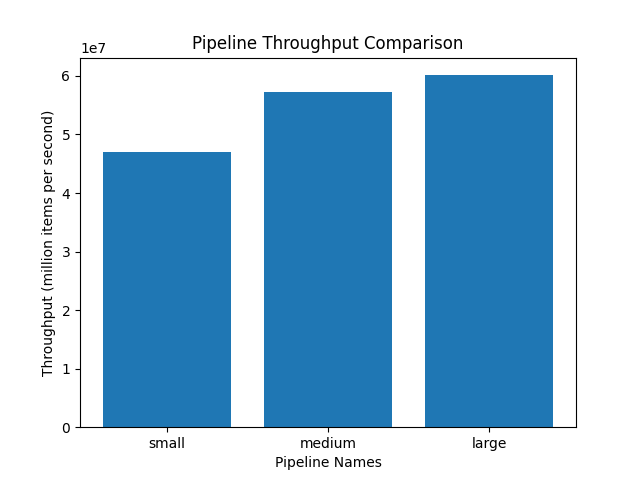
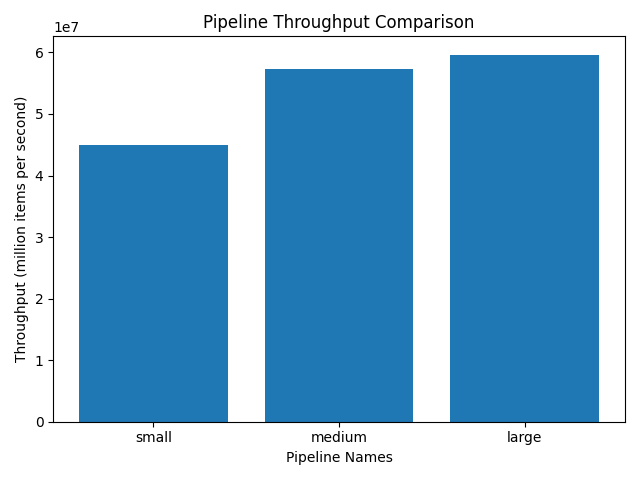
Finishing part2

diff --git a/part2.py b/part2.py
@@ -13,6 +13,7 @@ to report which one is faster.
 
 import part1
 import time
+from collections import defaultdict
 import seaborn as sns
 import pandas as pd
 import matplotlib.pyplot as plt
@@ -108,6 +109,7 @@ class ThroughputHelper:
         plt.xlabel('Pipeline Names')
         plt.ylabel('Throughput (million items per second)')
         plt.title('Pipeline Throughput Comparison')
+        plt.tight_layout()
         plt.savefig(filename)
 
 """
@@ -246,6 +248,7 @@ class LatencyHelper:
         plt.xlabel('Pipeline Names')
         plt.ylabel('Latencies (milliseconds second)')
         plt.title('Pipeline Latency Comparison')
+        plt.tight_layout()
         plt.savefig(filename)
 
 """
@@ -383,19 +386,19 @@ See if you can compute this using Pandas functions only.
 def load_input(filename):
     # Return a dataframe containing the population data
     # **Clean the data here**
-    population = pd.read_csv(filename)
+    population_data = pd.read_csv(filename)
     # groups = population.groupby("Code").mean("Population (historical)")
 
-    filtered_data = population[population["Code"].notnull()]
+    filtered_data = population_data[population_data["Code"].notnull()]
     return filtered_data
 
 def population_pipeline(df):
     # Input: the dataframe from load_input()
     # Return a list of min, median, max, mean, and standard deviation
-    population = df
-    population = population[population["Code"].notnull()]
+    population_data = df
+    population_data = population_data[population_data["Code"].notnull()]
 
-    country_stats = population.groupby("Entity").apply(lambda group: pd.Series({
+    country_stats = population_data.groupby("Entity").apply(lambda group: pd.Series({
         "min_year": group["Year"].min(),
         "max_year": group["Year"].max(),
         "min_population": group.loc[group["Year"] == group["Year"].min(), "Population (historical)"].values[0],
@@ -481,19 +484,19 @@ Each should call your population_pipeline from Q7.
 
 def baseline_small():
     h = LatencyHelper()
-    h.add_pipeline("baseline small", lambda: population_pipeline(load_input_small))
+    h.add_pipeline("baseline small", lambda: population_pipeline(load_input_small()))
 
 def baseline_medium():
     h = LatencyHelper()
-    h.add_pipeline("baseline medium", lambda: population_pipeline(load_input_medium))
+    h.add_pipeline("baseline medium", lambda: population_pipeline(load_input_medium()))
 
 def baseline_large():
     h = LatencyHelper()
-    h.add_pipeline("baseline large", lambda: population_pipeline(load_input_large))
+    h.add_pipeline("baseline large", lambda: population_pipeline(load_input_large()))
 
 def baseline_latency():
     h = LatencyHelper()
-    h.add_pipeline("baseline large", lambda: population_pipeline(load_input_single_row))
+    h.add_pipeline("baseline large", lambda: population_pipeline(load_input_single_row()))
 
 def q8():
     # Don't modify this part
@@ -523,34 +526,52 @@ b. Generate a plot in output/q9b.png of the latencies
 """
 
 # TODO
-# POPULATION_SMALL =
-# POPULATION_MEDIUM =
-# POPULATION_LARGE =
-# POPULATION_SINGLE_ROW =
+POPULATION_SMALL = load_input_small()
+POPULATION_MEDIUM = load_input_medium()
+POPULATION_LARGE = load_input_large()
+POPULATION_SINGLE_ROW = load_input_single_row()
 
 def fromvar_small():
-    raise NotImplementedError
+    h = ThroughputHelper()
+    h.add_pipeline("from var small", 600, lambda: population_pipeline(POPULATION_SMALL))
 
 def fromvar_medium():
-    raise NotImplementedError
+    h = ThroughputHelper()
+    h.add_pipeline("from var medium", 6000, lambda: population_pipeline(POPULATION_MEDIUM))
 
 def fromvar_large():
-    raise NotImplementedError
+    h = ThroughputHelper()
+    h.add_pipeline("from var large", 59178, lambda: population_pipeline(POPULATION_LARGE))
 
 def fromvar_latency():
-    raise NotImplementedError
+    h = LatencyHelper()
+    h.add_pipeline("from var latency", lambda: population_pipeline(POPULATION_SINGLE_ROW))
 
 def q9a():
+    h = ThroughputHelper()
     # Add all 6 pipelines for a throughput comparison
+    h.add_pipeline("baseline s", 600, lambda: population_pipeline(load_input_small()))
+    h.add_pipeline("baseline m", 6000, lambda: population_pipeline(load_input_medium()))
+    h.add_pipeline("baseline l", 59178, lambda: population_pipeline(load_input_large()))
+    h.add_pipeline("fromvar s", 600, lambda: population_pipeline(POPULATION_SMALL))
+    h.add_pipeline("fromvar m", 6000,lambda: population_pipeline(POPULATION_MEDIUM))
+    h.add_pipeline("fromvar l", 59178, lambda: population_pipeline(POPULATION_LARGE))
+    throughputs = h.compare_throughput()
     # Generate plot in ouptut/q9a.png
+    h.generate_plot("output/q9a.png")
     # Return list of 6 throughputs
-    raise NotImplementedError
+    return throughputs
 
 def q9b():
     # Add 2 pipelines for a latency comparison
+    h = LatencyHelper()
+    h.add_pipeline("baseline latency", lambda: population_pipeline(load_input_single_row()))
+    h.add_pipeline("from var latency", lambda: population_pipeline(POPULATION_SINGLE_ROW))
+    latencies = h.compare_latency()
     # Generate plot in ouptut/q9b.png
+    h.generate_plot("output/q9b.png")
     # Return list of 2 latencies
-    raise NotImplementedError
+    return latencies
 
 """
 10.
@@ -560,6 +581,11 @@ Which differs more, throughput or latency?
 What does this experiment show?
 
 ===== ANSWER Q10 BELOW =====
+
+The difference between loading the data from the csv vs a variable
+is very dramatic - variable is much faster. The difference between
+the fromvar and baseline is greater in the latency department, where
+the baseline is almost 7x slower. 
 
 ===== END OF Q10 ANSWER =====
 """
@@ -589,16 +615,73 @@ Create a new pipeline:
   statistics for the list (min, median, max, mean, and standard deviation).
 """
 
-def for_loop_pipeline(df):
+def for_loop_pipeline(df, multiple_rows = True):
     # Input: the dataframe from load_input()
     # Return a list of min, median, max, mean, and standard deviation
-    raise NotImplementedError
+
+    # 1. Iterate through dataframe to calculate min/max year for each country
+    # 2. Group by country
+    # 3. Compute growth rate between those years
+    # 4. Filter out single year entries
+    # 5. Calculate summary statistics on those growth rates
+
+    population_data = df
+    population_data = population_data[population_data["Code"].notnull()]
+
+    min_years = defaultdict(lambda: float('inf')) # Algeria: -1000
+    min_years_pop = defaultdict(int) # Algeria: 5912
+    max_years = defaultdict(lambda: float("-inf")) # Algeria: 2020
+    max_years_pop = defaultdict(int) # Algeria: 6019
+
+    # 1. Calculate min/max year for each country
+    for index, row in population_data.iterrows():
+        country_name = row["Entity"]
+        country_year = row["Year"]
+        country_population = row["Population (historical)"]
+
+        if country_year < min_years[country_name]:
+            min_years[country_name] = country_year
+            min_years_pop[country_name] = country_population
+
+        if country_year > max_years[country_name]:
+            max_years[country_name] = country_year
+            max_years_pop[country_name] = country_population
+
+    deletion_countries = []
+    growth_rates = []
+    # 3. compute growth rate
+    if not multiple_rows:
+        for country, year in min_years.items():
+            growth_rates.append(max_years_pop[country])
+
+    # 2. Get rid of single year entries
+    for country, year in min_years.items():
+        if year == max_years[country]:
+            deletion_countries.append(country)
+    
+    for country in deletion_countries:
+        del min_years[country]
+        del min_years_pop[country]
+        del max_years[country]
+        del max_years_pop[country]
+
+    
+    else:
+        for country, year in min_years.items():
+            population_diff = max_years_pop[country] - min_years_pop[country]
+            year_diff = max_years[country] - min_years[country]
+        
+            growth_rates.append(population_diff / year_diff)
+    
+    growth_rates_df = pd.DataFrame(growth_rates)
+    return growth_rates_df.agg(['min', 'median', 'max', 'mean', 'std'])
 
 def q11():
     # As your answer to this part, call load_input() and then
     # for_loop_pipeline() to return the 5 numbers.
     # (these should match the numbers you got in Q6.)
-    raise NotImplementedError
+    data = load_input('data/population.csv')
+    return for_loop_pipeline(data)
 
 """
 12.
@@ -608,16 +691,23 @@ As before, write 4 pipelines based on the datasets from Q7.
 """
 
 def for_loop_small():
-    raise NotImplementedError
+    h = ThroughputHelper()
+    h.add_pipeline("for loop small", 600, lambda: for_loop_pipeline(POPULATION_SMALL))
+
 
 def for_loop_medium():
-    raise NotImplementedError
+    h = ThroughputHelper()
+    h.add_pipeline("for loop medium", 6000, lambda: for_loop_pipeline(POPULATION_MEDIUM))
+
 
 def for_loop_large():
-    raise NotImplementedError
+    h = ThroughputHelper()
+    h.add_pipeline("for loop large", 59178, lambda: for_loop_pipeline(POPULATION_LARGE))
+
 
 def for_loop_latency():
-    raise NotImplementedError
+    h = LatencyHelper()
+    h.add_pipeline("for loop latency", lambda: for_loop_pipeline(POPULATION_SINGLE_ROW, multiple_rows= False))
 
 def q12():
     # Don't modify this part
@@ -642,13 +732,30 @@ def q13a():
     # Add all 6 pipelines for a throughput comparison
     # Generate plot in ouptut/q13a.png
     # Return list of 6 throughputs
-    raise NotImplementedError
+    h = ThroughputHelper()
+    # Add all 6 pipelines for a throughput comparison
+    h.add_pipeline("baseline s", 600, lambda: population_pipeline(POPULATION_SMALL))
+    h.add_pipeline("baseline m", 6000, lambda: population_pipeline(POPULATION_MEDIUM))
+    h.add_pipeline("baseline l", 59178, lambda: population_pipeline(POPULATION_LARGE))
+    h.add_pipeline("for loop s", 600, lambda: for_loop_pipeline(POPULATION_SMALL))
+    h.add_pipeline("for loop m", 6000,lambda: for_loop_pipeline(POPULATION_MEDIUM))
+    h.add_pipeline("for loop l", 59178, lambda: for_loop_pipeline(POPULATION_LARGE))
+    throughputs = h.compare_throughput()
+    # Generate plot in ouptut/q9a.png
+    h.generate_plot("output/q13a.png")
+    # Return list of 6 throughputs
+    return throughputs
 
 def q13b():
     # Add 2 pipelines for a latency comparison
     # Generate plot in ouptut/q13b.png
     # Return list of 2 latencies
-    raise NotImplementedError
+    h = LatencyHelper()
+    h.add_pipeline("baseline latency", lambda: population_pipeline(POPULATION_SINGLE_ROW))
+    h.add_pipeline("for loop latency", lambda: for_loop_pipeline(POPULATION_SINGLE_ROW, multiple_rows= False))
+    latencies = h.compare_latency()
+    h.generate_plot("output/q13b.png")
+    return latencies
 
 """
 14.
@@ -658,11 +765,16 @@ Comment on the results you got!
 
 ===== ANSWER Q14a BELOW =====
 
+In terms of throughput, the Pandas implementations definitely 
+blow the throughput of the for loops. 
+
 ===== END OF Q14a ANSWER =====
 
 14b. Which pipeline is faster in terms of latency?
 
 ===== ANSWER Q14b BELOW =====
+
+However, the for loop latency is much better. Maybe 5x less. 
 
 ===== END OF Q14b ANSWER =====
 
@@ -670,6 +782,12 @@ Comment on the results you got!
 What does this experiment show?
 
 ===== ANSWER Q14c BELOW =====
+
+It's interesting how the throughput of the pandas 
+implementation increases as the size of the dataset
+increases, probably due to the overhead of getting
+the data ready. However, the for loop's throughput
+is always kind of constant. 
 
 ===== END OF Q14c ANSWER =====
 """
@@ -684,6 +802,8 @@ had the biggest impact on performance?
 
 ===== ANSWER Q15 BELOW =====
 
+It looks like file vs. variable had the most dramatic performance. 
+
 ===== END OF Q15 ANSWER =====
 
 16.
@@ -695,6 +815,13 @@ This is an open ended question.)
 
 ===== ANSWER Q16 BELOW =====
 
+Throughput generally increases and then plateaus with
+the input dataset scaling. We can see this in the pipeline
+throughput comparison with pandas vs. the for loop. 
+This is only present though if there are optimizations
+that can improve the handling of data (the for loop) does
+not have them. 
+
 ===== END OF Q16 ANSWER =====
 
 17.
@@ -705,6 +832,11 @@ throughput is related to latency.
 This is an open ended question.)
 
 ===== ANSWER Q17 BELOW =====
+
+It looks like throughput might actually be
+inversely correlated with latency. I have a hypothesis based
+on the q13a and q13b plots - Pandas has higher latency
+but it has better throughput. 
 
 ===== END OF Q17 ANSWER =====
 """
